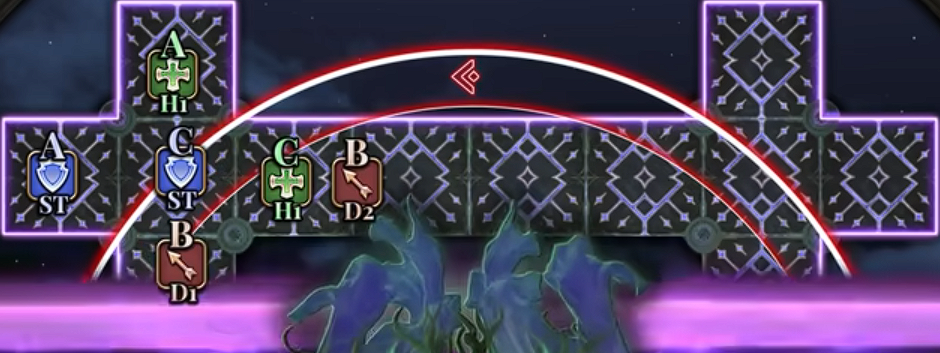
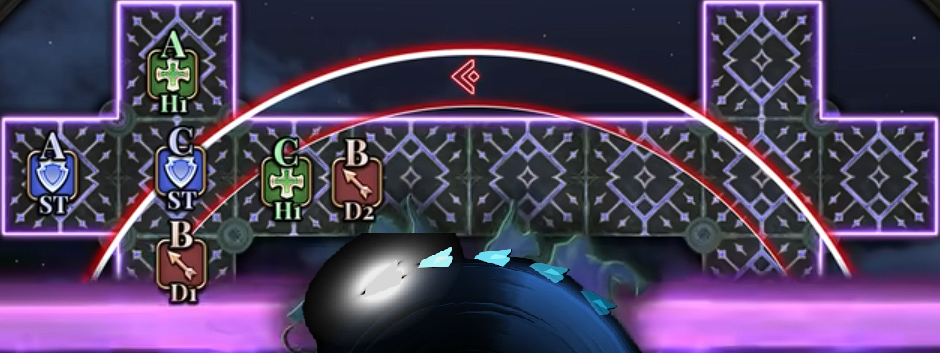
增加了C队的T的部分

Changed region(s): [[0.3085, 0.6544, 0.7096, 1.0]]

diff --git a/wtfdig/src/routes/+page.ts b/wtfdig/src/routes/+page.ts
@@ -7208,7 +7208,7 @@ const ziyanStrat: Strat = {
                     alignmentMasks: {
                         'original': '',
                         'truenorth': '',
-                        'addrelative': 'radial-gradient(circle at 61.9% 67.5%, black 12%, rgba(0, 0, 0, 0.4) 12%)',
+                        'addrelative': 'radial-gradient(circle at 38.1% 32.5%, black 12%, rgba(0, 0, 0, 0.4) 12%)',
                     },
                 },
             ]
@@ -7329,7 +7329,7 @@ const ziyanStrat: Strat = {
                     alignmentMasks: {
                         'original': '',
                         'truenorth': '',
-                        'addrelative': 'radial-gradient(circle at 16.4% 71.5%, black 12%, rgba(0, 0, 0, 0.4) 12%)',
+                        'addrelative': 'radial-gradient(circle at 83.6% 28.5%, black 12%, rgba(0, 0, 0, 0.4) 12%)',
                     },
                 },
             ]
@@ -7450,7 +7450,7 @@ const ziyanStrat: Strat = {
                     alignmentMasks: {
                         'original': '',
                         'truenorth': '',
-                        'addrelative': 'radial-gradient(circle at 83.3% 72.5%, black 12%, rgba(0, 0, 0, 0.4) 12%)',
+                        'addrelative': 'radial-gradient(circle at 16.7% 27.5%, black 12%, rgba(0, 0, 0, 0.4) 12%)',
                     },
                 },
             ]
@@ -7459,14 +7459,13 @@ const ziyanStrat: Strat = {
             alliance: 'B',
             role: 'Tank',
             party: 1,
-            notes: '华容道西南角 | MT',
+            notes: '华容道西南角',
             startingArea: 'Platform',
             strats: [
                 {
                     mechanic: '基础站位',
                     description: '十字路口格子的东侧格子的两个格子',
                     imageUrl: './strats/idyll/overall.png',
-                    mask: 'radial-gradient(circle at 41% 77%, black 8%, rgba(0, 0, 0, 0.2) 8%)'
                 },
                 {
                     mechanic: '种子弹放置',
@@ -8105,51 +8104,47 @@ const ziyanStrat: Strat = {
             alliance: 'C',
             role: 'Tank',
             party: 1,
-            notes: '右侧/东侧平台，拉BOSS朝场外，以场外作为12点 | MT',
+            notes: '右侧/东侧平台，拉BOSS朝场外，以场外作为12点',
             startingArea: 'Platform',
             strats: [
                 {
                     mechanic: '分摊',
                     description: '目标圈内 北 和H2一组',
-                    imageUrl: './strats/idyll/pair-stack-pre-swap.png',
-                    transform: 'rotate(180deg)',
-                    mask: 'radial-gradient(circle at 48% 48%, black 15%, rgba(0, 0, 0, 0.2) 15%)',
+                    imageUrl: './strats/ziyan/platform-pairs-east.png',
+                    mask: 'radial-gradient(circle at 50% 33%, black 12%, rgba(0, 0, 0, 0.2) 12%)',
                     alignmentTransforms: {
                         'original': '',
-                        'truenorth': '',
-                        'addrelative': 'rotate(270deg)',
+                        'truenorth': 'rotate(90deg)',
+                        'addrelative': '',
                     }
                 },
                 {
                     mechanic: '分散',
                     description: '西北偏北',
-                    imageUrl: './strats/idyll/spread.png',
-                    transform: 'rotate(180deg)',
-                    mask: 'radial-gradient(circle at 33% 53.6%, black 12%, rgba(0, 0, 0, 0.2) 12%)',
+                    imageUrl: './strats/ziyan/platform-spread-east.png',
+                    mask: 'radial-gradient(circle at 40% 10%, black 10%, rgba(0, 0, 0, 0.2) 10%)',
                     alignmentTransforms: {
                         'original': '',
-                        'truenorth': '',
-                        'addrelative': 'rotate(270deg)',
+                        'truenorth': 'rotate(90deg)',
+                        'addrelative': '',
                     }
                 },
                 {
                     mechanic: '踩塔',
                     description: '北/西',
-                    imageUrl: './strats/idyll/towers-pre-swap-w.png',
-                    transform: 'rotate(180deg)',
-                    mask: 'radial-gradient(circle at 30.2% 50%, black 15%, rgba(0, 0, 0, 0.2) 15%), radial-gradient(circle at 53% 70.7%, black 15%, rgba(0, 0, 0, 0.2) 15%)',
+                    imageUrl: './strats/ziyan/platform-towers-east.png',
+                    mask: 'radial-gradient(circle at 18% 50%, black 20%, rgba(0, 0, 0, 0.2) 20%), radial-gradient(circle at 50% 22%, black 20%, rgba(0, 0, 0, 0.2) 20%)',
                     alignmentTransforms: {
                         'original': '',
-                        'truenorth': '',
-                        'addrelative': 'rotate(270deg)',
+                        'truenorth': 'rotate(90deg)',
+                        'addrelative': '',
                     }
                 },
                 {
                     mechanic: '引导种子',
                     description: '不引导，站在小云妈脚下',
-                    imageUrl: './strats/idyll/brambles-w.png',
-                    transform: 'rotate(180deg)',
-                    mask: 'radial-gradient(circle at 23% 35%, black 10%, rgba(0, 0, 0, 0.2) 10%)',
+                    imageUrl: './strats/ziyan/platform-east-brambles.png',
+                    mask: 'radial-gradient(circle at 85.7% 50%, black 15%, rgba(0, 0, 0, 0.2) 15%)',
                     alignmentTransforms: {
                         'original': '',
                         'truenorth': '',
@@ -8159,19 +8154,24 @@ const ziyanStrat: Strat = {
                 {
                     mechanic: '分散式波动炮',
                     description: '平台内侧 靠东',
-                    imageUrl: './strats/idyll/begone-with-you-e.png',
-                    mask: 'radial-gradient(circle at 43% 62%, black 10%, rgba(0, 0, 0, 0.2) 10%)',
-                    alignmentTransforms: {
+                    imageUrl: './strats/ziyan/platform-east-aoe-spread.png',
+                    mask: 'radial-gradient(circle at 20% 62.5%, black 10%, rgba(0, 0, 0, 0.2) 10%)',
+                    alignmentImages: {
                         'original': '',
                         'truenorth': '',
-                        'addrelative': 'rotate(270deg)',
-                    }
+                        'addrelative': './strats/ziyan/platform-east-aoe-spread-rotated.png',
+                    },
+                    alignmentMasks: {
+                        'original': '',
+                        'truenorth': '',
+                        'addrelative': 'radial-gradient(circle at 62.5% 80%, black 12%, rgba(0, 0, 0, 0.4) 12%)',
+                    },
                 },
                 {
                     mechanic: '换线',
                     description: '平台外侧',
-                    imageUrl: './strats/idyll/looming-chaos-e.png',
-                    mask: 'radial-gradient(circle at 72% 48%, black 10%, rgba(0, 0, 0, 0.2) 10%)',
+                    imageUrl: './strats/ziyan/platform-east-swap.png',
+                    mask: 'radial-gradient(circle at 82% 48%, black 15%, rgba(0, 0, 0, 0.2) 15%)',
                     alignmentTransforms: {
                         'original': '',
                         'truenorth': '',
@@ -8179,31 +8179,48 @@ const ziyanStrat: Strat = {
                     }
                 },
             ],
-            swapNote: "我换到了华容道的西北或者西南角！现在怎么站?",
-            swapStrats: [
+            anotherSwapNote: "我换到了华容道的西北角！现在怎么站?",
+            anotherSwapWarning:"请迅速挑衅重新建立仇恨 T需要换到逆时针方向的路口上（如潜地炮预站位）",
+            anotherSwapStrats: [
                 {
-                    mechanic: '基础站位',
-                    description: '十字路口东侧的两个格子',
-                    imageUrl: './strats/idyll/overall.png',
-                    mask: 'radial-gradient(circle at 40% 22%, black 8%, rgba(0, 0, 0, 0.2) 8%), radial-gradient(circle at 40% 77%, black 8%, rgba(0, 0, 0, 0.2) 8%)'
+                    mechanic: '潜地炮预站位',
+                    description: '',
+                    imageUrl: './strats/ziyan/tiles-northwest-chaser-pre.png',
+                    mask: 'radial-gradient(circle at 55.1% 86.1%, black 12%, rgba(0, 0, 0, 0.2) 12%)'
                 },
                 {
                     mechanic: '凝缩式波动炮',
-                    description: '十字路口格子的东侧格子',
-                    imageUrl: './strats/idyll/wild-charge-tiles.png',
-                    mask: 'radial-gradient(circle at 27.8% 21.6%, black 7%, rgba(0, 0, 0, 0.2) 7%), radial-gradient(circle at 29% 82%, black 7%, rgba(0, 0, 0, 0.2) 7%)'
-                },
-                {
-                    mechanic: '潜地炮预站位',
-                    description: '十字路口格子的\n以云妈为中心的逆时针方向\n(面向云妈右侧)',
-                    imageUrl: './strats/idyll/chaser.png',
-                    mask: 'radial-gradient(circle at 21% 33%, black 9%, rgba(0, 0, 0, 0.2) 9%), radial-gradient(circle at 33% 79%, black 10%, rgba(0, 0, 0, 0.2) 10%)'
+                    description: '',
+                    imageUrl: './strats/ziyan/tiles-northwest-wc.png',
+                    mask: 'radial-gradient(circle at 82.7% 72.2%, black 10%, rgba(0, 0, 0, 0.2) 10%)'
                 },
                 {
                     mechanic: '分散式波动炮',
-                    description: '基本站位的最中间',
-                    imageUrl: './strats/idyll/begone-with-you.png',
-                    mask: 'radial-gradient(circle at 39.8% 19.6%, black 7%, rgba(0, 0, 0, 0.2) 7%), radial-gradient(circle at 40% 78%, black 7%, rgba(0, 0, 0, 0.2) 7%)',
+                    description: '',
+                    imageUrl: './strats/ziyan/tiles-northwest-aoe-spread.png',
+                    mask: 'radial-gradient(circle at 62.5% 42.3%, black 10%, rgba(0, 0, 0, 0.2) 10%)',
+                },
+            ],
+            thirdSwapNote: "我换到了华容道的西南角！现在怎么站?",
+            thirdSwapWarning:"请迅速挑衅重新建立仇恨 T需要换到逆时针方向的路口上（如潜地炮预站位）",
+            thirdSwapStrats: [
+                {
+                    mechanic: '潜地炮预站位',
+                    description: '',
+                    imageUrl: './strats/ziyan/tiles-southeast-chaser-pre.png',
+                    mask: 'radial-gradient(circle at 81.0% 45.7%, black 12%, rgba(0, 0, 0, 0.2) 12%)'
+                },
+                {
+                    mechanic: '凝缩式波动炮',
+                    description: '',
+                    imageUrl: './strats/ziyan/tiles-southeast-wc.png',
+                    mask: 'radial-gradient(circle at 82.7% 27.8%, black 10%, rgba(0, 0, 0, 0.2) 10%)'
+                },
+                {
+                    mechanic: '分散式波动炮',
+                    description: '',
+                    imageUrl: './strats/ziyan/tiles-southeast-aoe-spread.png',
+                    mask: 'radial-gradient(circle at 62.5% 50%, black 10%, rgba(0, 0, 0, 0.2) 10%)',
                 },
             ]
         },
@@ -8211,67 +8228,135 @@ const ziyanStrat: Strat = {
             alliance: 'C',
             role: 'Tank',
             party: 2,
-            notes: '华容道东北角 | ST',
-            startingArea: 'Platform',
+            notes: '华容道东北角',
+            startingArea: 'Tiles',
             strats: [
                 {
                     mechanic: '基础站位',
-                    description: '十字路口西侧的两个格子',
-                    imageUrl: './strats/idyll/overall.png',
-                    mask: 'radial-gradient(circle at 58% 22%, black 8%, rgba(0, 0, 0, 0.2) 8%)'
+                    description: '',
+                    imageUrl: './strats/ziyan/tiles-northeast-idle.png',
                 },
                 {
-                    mechanic: '种子弹放置',
-                    description: '优先级: H > D > T',
-                    imageUrl: './strats/idyll/brambles-w.png',
-                    transform: 'scale(-1,-1)',
-                    mask: 'radial-gradient(circle at 69% 18%, black 15%, rgba(0, 0, 0, 0.2) 15%), radial-gradient(circle at 69% 51%, black 15%, rgba(0, 0, 0, 0.2) 15%)'
+                    mechanic: '种子弹预站位',
+                    description: '放置优先级: H > D > T',
+                    imageUrl: './strats/ziyan/tiles-northeast-brambles-pre.png',
+                    mask: 'radial-gradient(circle at 35% 38%, black 12%, rgba(0, 0, 0, 0.2) 12%)'
                 },
                 {
                     mechanic: '凝缩式波动炮',
-                    description: '十字路口格子的西侧格子',
-                    imageUrl: './strats/idyll/wild-charge-nw.png',
-                    transform: 'scale(-1,1)',
-                    mask: 'radial-gradient(circle at 77.8% 55.6%, black 20%, rgba(0, 0, 0, 0.2) 20%)'
+                    description: '',
+                    imageUrl: './strats/ziyan/tiles-northeast-wc.png',
+                    mask: 'radial-gradient(circle at 16% 72.2%, black 10%, rgba(0, 0, 0, 0.2) 10%)'
                 },
                 {
                     mechanic: '分散式波动炮',
-                    description: '基本站位的最中间',
-                    imageUrl: './strats/idyll/begone-with-you-ne.png',
-                    mask: 'radial-gradient(circle at 37% 32%, black 10%, rgba(0, 0, 0, 0.2) 10%)',
+                    description: '',
+                    imageUrl: './strats/ziyan/tiles-northeast-aoe-spread.png',
+                    mask: 'radial-gradient(circle at 37% 42.3%, black 10%, rgba(0, 0, 0, 0.2) 10%)',
                 },
                 {
-                    mechanic: '回旋式波动炮',
-                    description: '如果在危险区则优先级最高往安全区走\n如果在安全区则去水平方向的突起',
-                    imageUrl: './strats/idyll/spinny.png',
-                    mask: 'radial-gradient(circle at 89% 10%, black 5%, rgba(0, 0, 0, 0.2) 5%), radial-gradient(circle at 22% 60.7%, black 7%, rgba(0, 0, 0, 0.2) 7%)'
+                    mechanic: '回旋式波动炮-顺时针',
+                    description: '你在安全区：\n去水平方向的突起',
+                    imageUrl: './strats/ziyan/tiles-north-cw.png',
+                    mask: 'radial-gradient(circle at 93.8% 50%, black 7%, rgba(0, 0, 0, 0.2) 7%)'
+                },
+                {
+                    mechanic: '回旋式波动炮-逆时针',
+                    description: '你在危险区：\n优先级最高往安全区走',
+                    imageUrl: './strats/ziyan/tiles-north-ccw.png',
+                    mask: 'radial-gradient(circle at 18.8% 50%, black 7%, rgba(0, 0, 0, 0.2) 7%)'
                 },
                 {
                     mechanic: '换线',
                     description: '十字路口格子的西侧格子',
-                    imageUrl: './strats/idyll/looming-chaos-tilee.png',
-                    mask: 'radial-gradient(circle at 38% 19%, black 10%, rgba(0, 0, 0, 0.2) 10%)'
+                    imageUrl: './strats/ziyan/tiles-northeast-swap.png',
+                mask: 'radial-gradient(circle at 85% 50%, black 12%, rgba(0, 0, 0, 0.2) 12%)'
                 },
             ],
             swapNote: "我换到了西侧的平台上！现在怎么站?",
+            swapWarning:"请迅速挑衅重新建立仇恨，T需要拉BOSS朝场外，",
             swapStrats: [
                 {
                     mechanic: '踩塔',
                     description: '北/西',
-                    imageUrl: './strats/idyll/towers-post-swap-w.png',
-                    mask: 'radial-gradient(circle at 47.2% 46%, black 20%, rgba(0, 0, 0, 0.2) 15%), radial-gradient(circle at 67% 71.7%, black 15%, rgba(0, 0, 0, 0.2) 15%)'
+                    imageUrl: './strats/ziyan/postswap-platform-towers.png',
+                    mask: 'radial-gradient(circle at 18% 50%, black 20%, rgba(0, 0, 0, 0.2) 20%), radial-gradient(circle at 50% 22%, black 20%, rgba(0, 0, 0, 0.2) 20%)',
+                    alignmentTransforms: {
+                        'original': '',
+                        'truenorth': 'rotate(270deg)',
+                        'addrelative': '',
+                    }
                 },
                 {
                     mechanic: '分摊',
                     description: '目标圈内 北 和D3一组',
-                    imageUrl: './strats/idyll/pair-stack-post-swap.png',
-                    mask: 'radial-gradient(circle at 48% 54%, black 10%, rgba(0, 0, 0, 0.2) 10%)'
+                    imageUrl: './strats/ziyan/postswap-platform-pairs.png',
+                    mask: 'radial-gradient(circle at 51% 30%, black 12%, rgba(0, 0, 0, 0.2) 12%)',
+                    alignmentTransforms: {
+                        'original': '',
+                        'truenorth': 'rotate(270deg)',
+                        'addrelative': '',
+                    }
                 },
                 {
                     mechanic: '分散式波动炮',
                     description: '平台内侧 靠东',
-                    imageUrl: './strats/idyll/begone-with-you-w.png',
-                    mask: 'radial-gradient(circle at 57% 41%, black 10%, rgba(0, 0, 0, 0.2) 10%)',
+                    imageUrl: './strats/ziyan/platform-west-aoe-spread.png',
+                    mask: 'radial-gradient(circle at 80% 37.5%, black 10%, rgba(0, 0, 0, 0.2) 10%)',
+                    alignmentImages: {
+                        'original': '',
+                        'truenorth': '',
+                        'addrelative': './strats/ziyan/platform-west-aoe-spread-rotated.png',
+                    },
+                    alignmentMasks: {
+                        'original': '',
+                        'truenorth': '',
+                        'addrelative': 'radial-gradient(circle at 62.5% 80%, black 12%, rgba(0, 0, 0, 0.4) 12%)',
+                    },
+                },
+            ],
+            anotherSwapNote: "我换到了华容道的西北角！现在怎么站?",
+            anotherSwapWarning:"请迅速挑衅重新建立仇恨 T需要换到逆时针方向的路口上（如潜地炮预站位）",
+            anotherSwapStrats: [
+                {
+                    mechanic: '潜地炮预站位',
+                    description: '',
+                    imageUrl: './strats/ziyan/tiles-northwest-chaser-pre.png',
+                    mask: 'radial-gradient(circle at 55.1% 86.1%, black 12%, rgba(0, 0, 0, 0.2) 12%)'
+                },
+                {
+                    mechanic: '凝缩式波动炮',
+                    description: '',
+                    imageUrl: './strats/ziyan/tiles-northwest-wc.png',
+                    mask: 'radial-gradient(circle at 82.7% 72.2%, black 10%, rgba(0, 0, 0, 0.2) 10%)'
+                },
+                {
+                    mechanic: '分散式波动炮',
+                    description: '',
+                    imageUrl: './strats/ziyan/tiles-northwest-aoe-spread.png',
+                    mask: 'radial-gradient(circle at 62.5% 42.3%, black 10%, rgba(0, 0, 0, 0.2) 10%)',
+                },
+            ],
+            thirdSwapNote: "我换到了华容道的西南角！现在怎么站?",
+            thirdSwapWarning:"请迅速挑衅重新建立仇恨 T需要换到逆时针方向的路口上（如潜地炮预站位）",
+            thirdSwapStrats: [
+                {
+                    mechanic: '潜地炮预站位',
+                    description: '',
+                    imageUrl: './strats/ziyan/tiles-southeast-chaser-pre.png',
+                    mask: 'radial-gradient(circle at 81.0% 45.7%, black 12%, rgba(0, 0, 0, 0.2) 12%)'
+                },
+                {
+                    mechanic: '凝缩式波动炮',
+                    description: '',
+                    imageUrl: './strats/ziyan/tiles-southeast-wc.png',
+                    mask: 'radial-gradient(circle at 82.7% 27.8%, black 10%, rgba(0, 0, 0, 0.2) 10%)'
+                },
+                {
+                    mechanic: '分散式波动炮',
+                    description: '',
+                    imageUrl: './strats/ziyan/tiles-southeast-aoe-spread.png',
+                    mask: 'radial-gradient(circle at 62.5% 50%, black 10%, rgba(0, 0, 0, 0.2) 10%)',
                 },
             ]
         },
